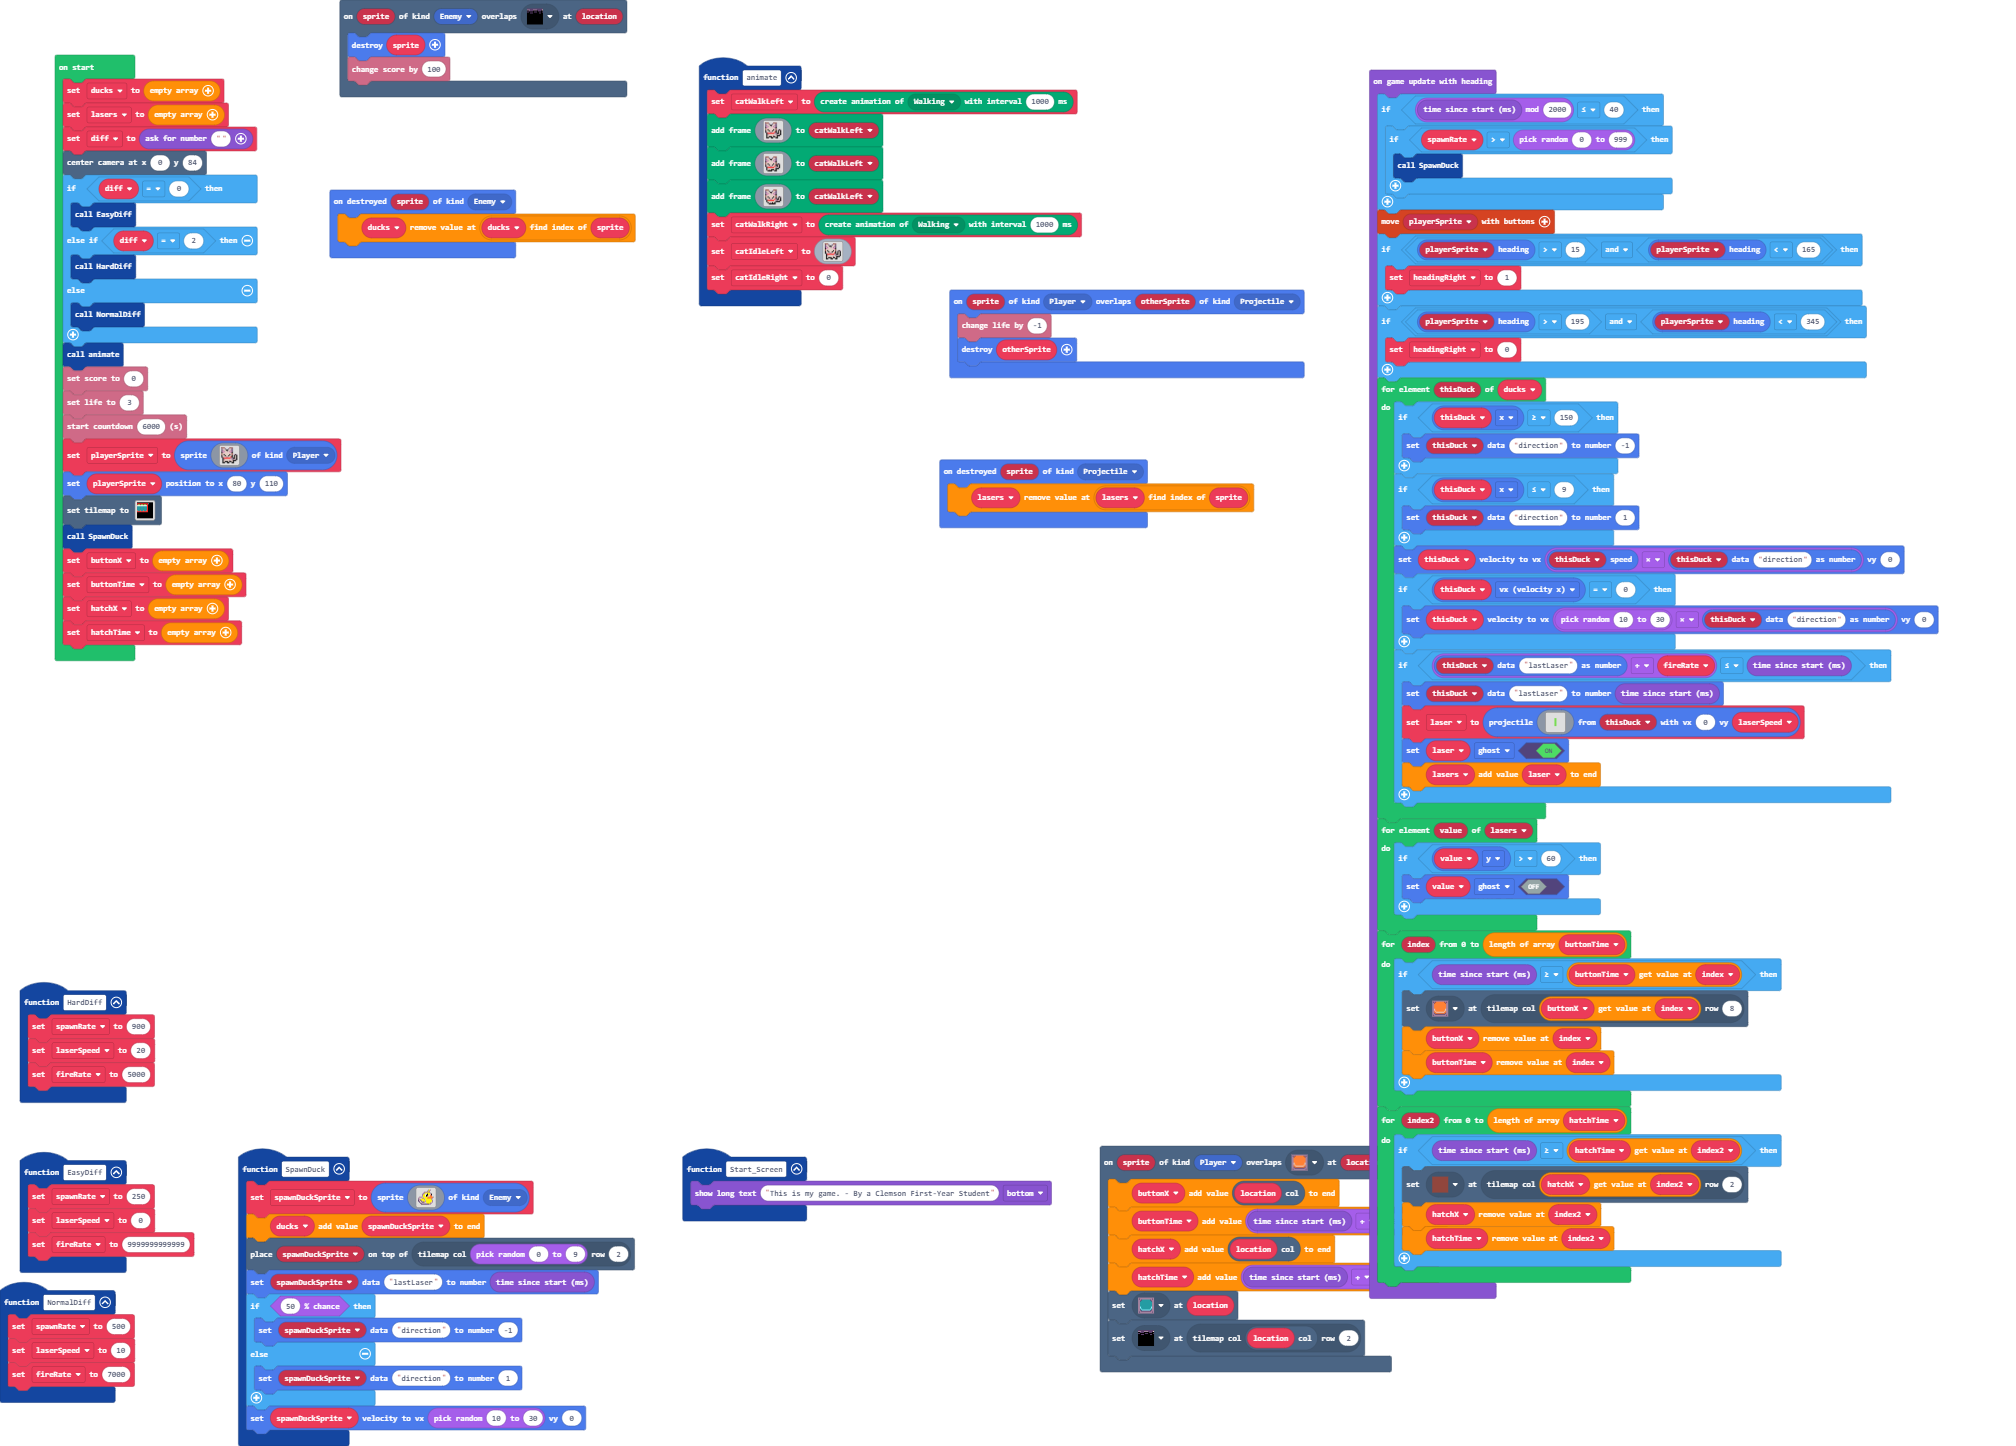
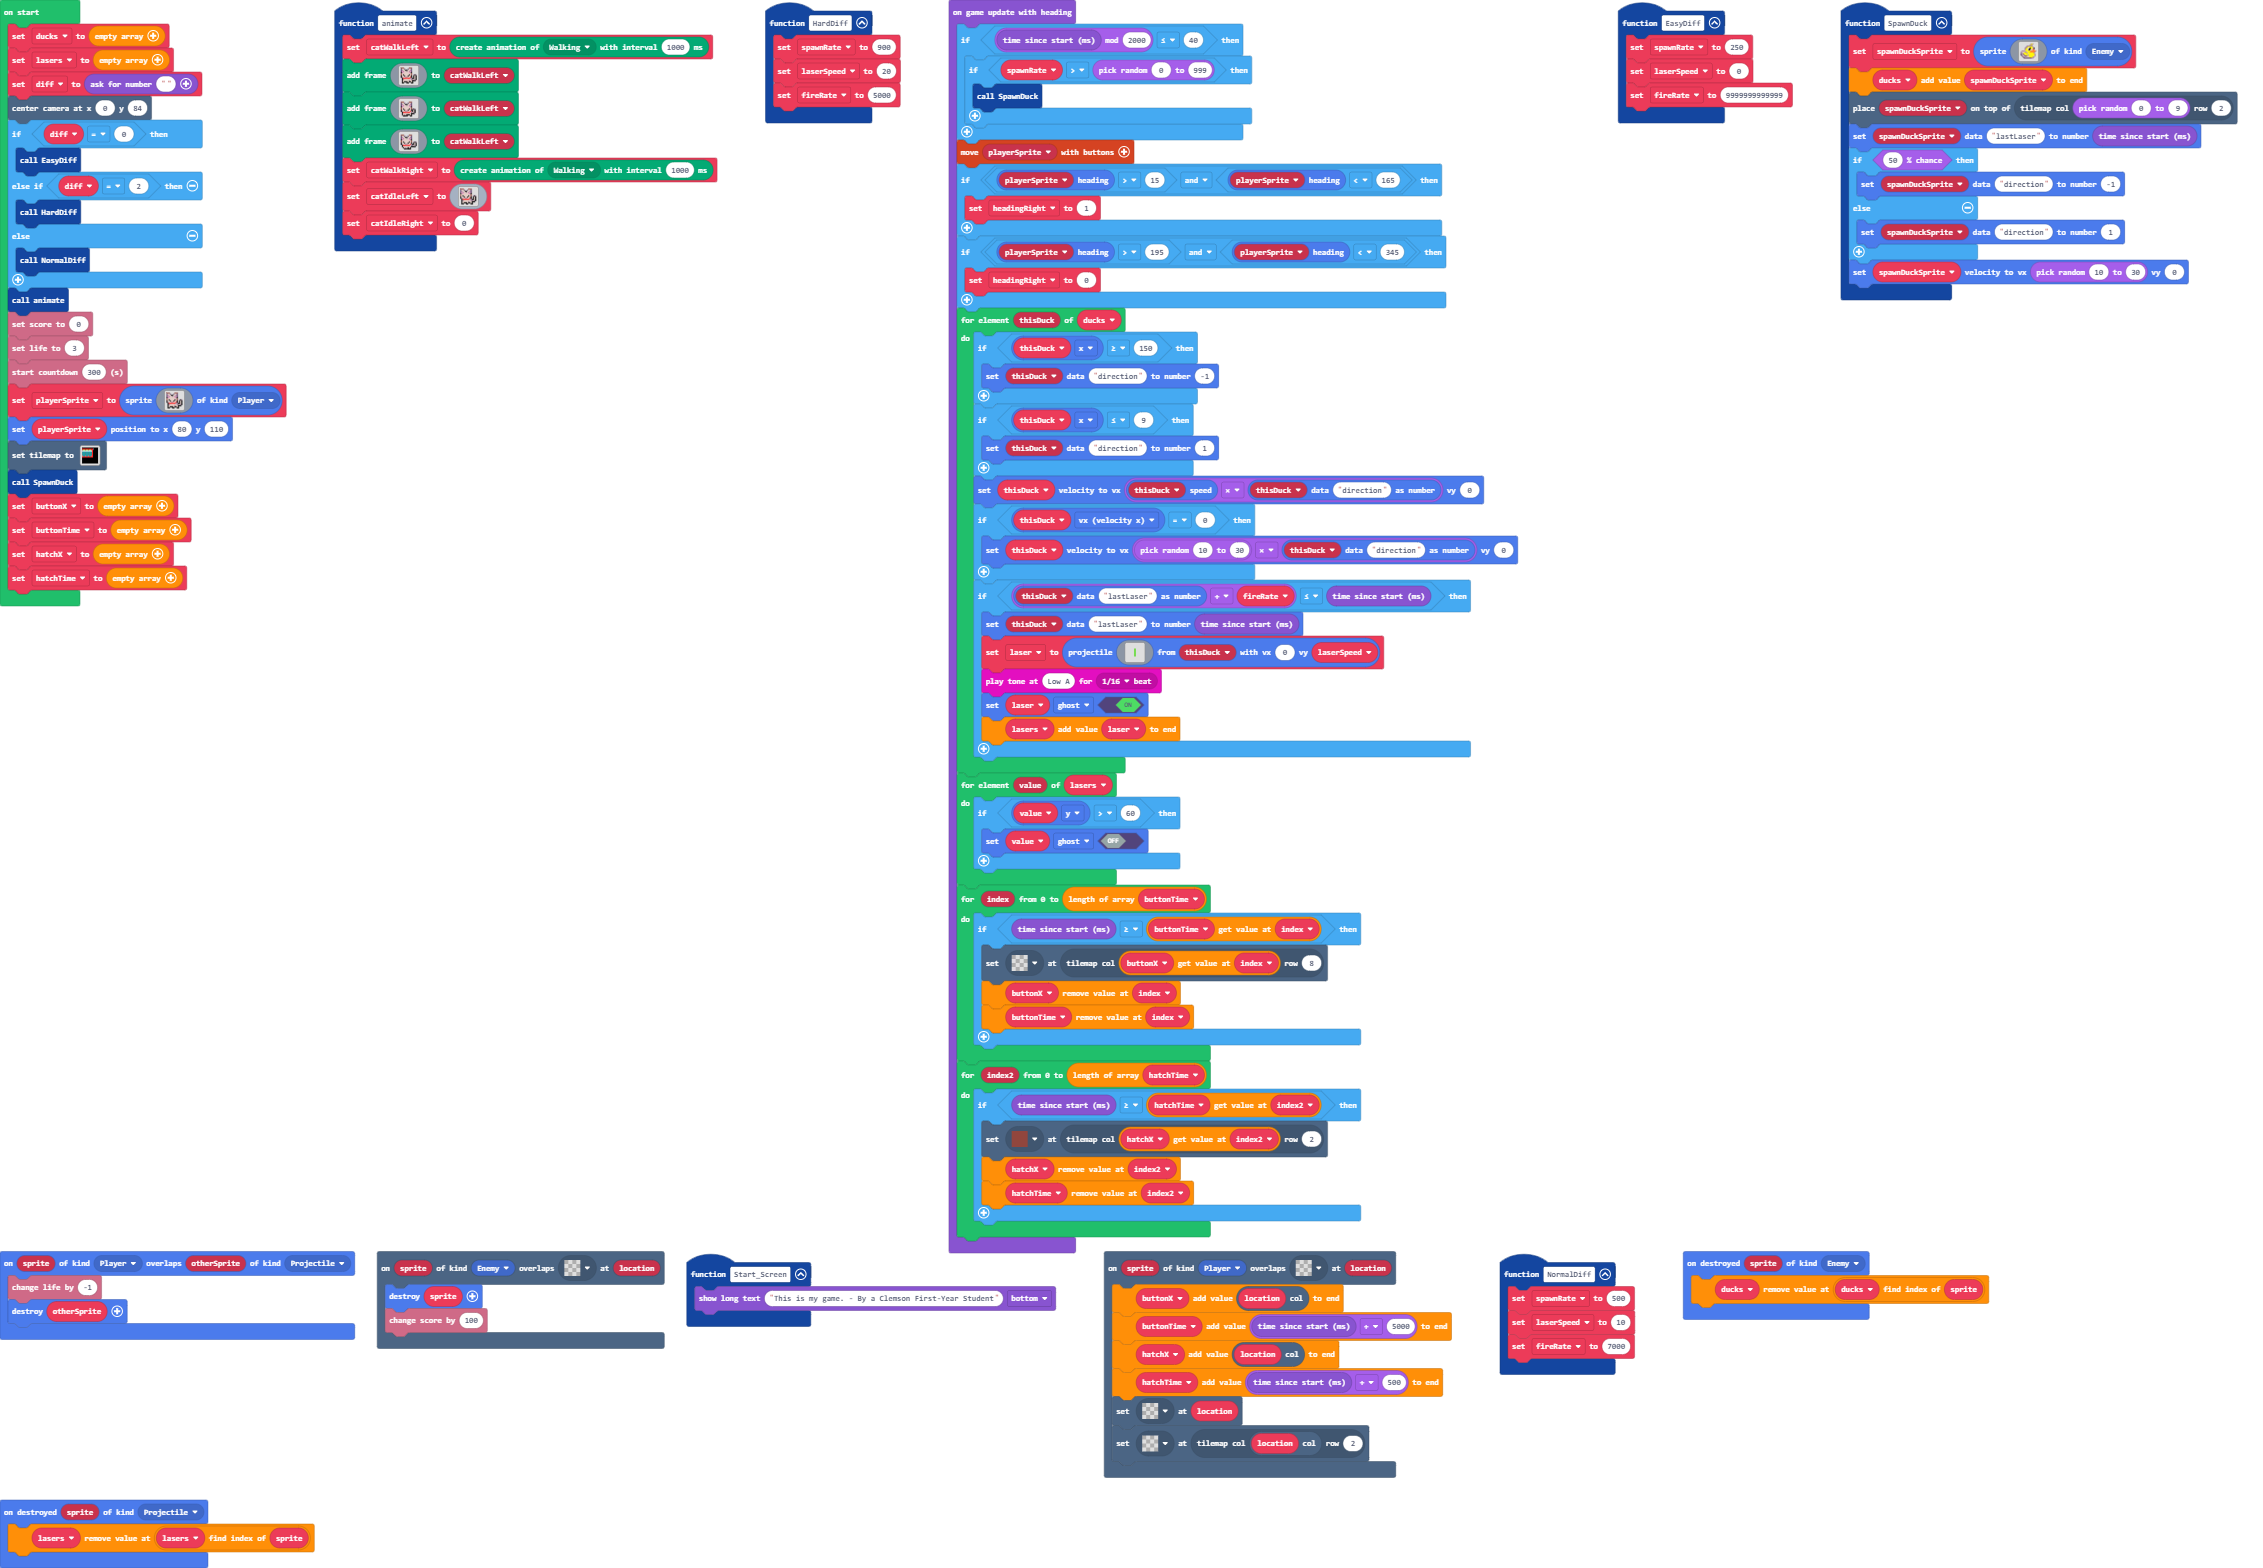
final present

diff --git a/main.ts b/main.ts
@@ -3,6 +3,10 @@ enum ActionKind {
     Idle,
     Jumping
 }
+scene.onOverlapTile(SpriteKind.Enemy, sprites.dungeon.hazardHole, function (sprite, location) {
+    sprite.destroy()
+    info.changeScoreBy(100)
+})
 function animate () {
     catWalkLeft = animation.createAnimation(ActionKind.Walking, 1000)
     catWalkLeft.addAnimationFrame(img`
@@ -121,6 +125,7 @@ game.onGameUpdateWithHeading(function () {
                 . . . . . . . . . . . . . . . . 
                 . . . . . . . . . . . . . . . . 
                 `, thisDuck, 0, laserSpeed)
+            music.playTone(220, music.beat(BeatFraction.Sixteenth))
             laser.setFlag(SpriteFlag.Ghost, true)
             lasers.push(laser)
         }
@@ -144,6 +149,14 @@ game.onGameUpdateWithHeading(function () {
             hatchTime.removeAt(index2)
         }
     }
+})
+scene.onOverlapTile(SpriteKind.Player, sprites.dungeon.buttonOrange, function (sprite, location) {
+    buttonX.push(scene.getTileColCoordinate(location))
+    buttonTime.push(game.runtime() + 5000)
+    hatchX.push(scene.getTileColCoordinate(location))
+    hatchTime.push(game.runtime() + 500)
+    tiles.setTileAt(location, sprites.dungeon.buttonTealDepressed)
+    tiles.setTileAt(tiles.getTileLocation(scene.getTileColCoordinate(location), 2), sprites.dungeon.hazardHole)
 })
 function EasyDiff () {
     spawnRate = 250
@@ -183,21 +196,9 @@ sprites.onOverlap(SpriteKind.Player, SpriteKind.Projectile, function (sprite, ot
     info.changeLifeBy(-1)
     otherSprite.destroy()
 })
-scene.onOverlapTile(SpriteKind.Enemy, sprites.dungeon.hazardHole, function (sprite, location) {
-    sprite.destroy()
-    info.changeScoreBy(100)
-})
 function Start_Screen () {
     game.showLongText("This is my game. - By a Clemson First-Year Student", DialogLayout.Bottom)
 }
-scene.onOverlapTile(SpriteKind.Player, sprites.dungeon.buttonOrange, function (sprite, location) {
-    buttonX.push(scene.getTileColCoordinate(location))
-    buttonTime.push(game.runtime() + 5000)
-    hatchX.push(scene.getTileColCoordinate(location))
-    hatchTime.push(game.runtime() + 500)
-    tiles.setTileAt(location, sprites.dungeon.buttonTealDepressed)
-    tiles.setTileAt(tiles.getTileLocation(scene.getTileColCoordinate(location), 2), sprites.dungeon.hazardHole)
-})
 function NormalDiff () {
     spawnRate = 500
     laserSpeed = 10
@@ -240,7 +241,7 @@ if (diff == 0) {
 animate()
 info.setScore(0)
 info.setLife(3)
-info.startCountdown(6000)
+info.startCountdown(300)
 playerSprite = sprites.create(img`
     e e e . . . . e e e . . . . 
     c d d c . . c d d c . . . . 
